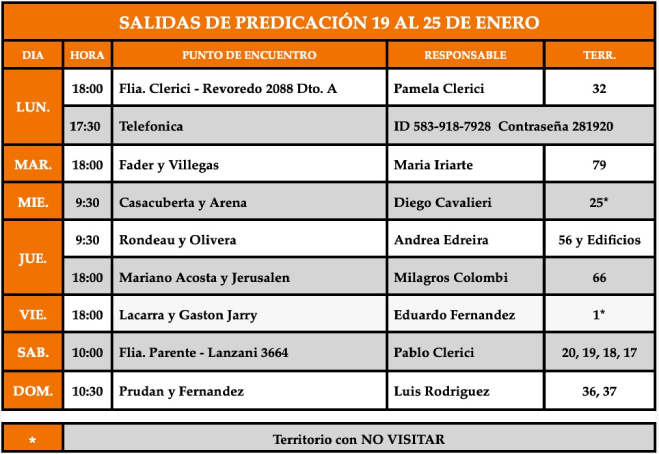
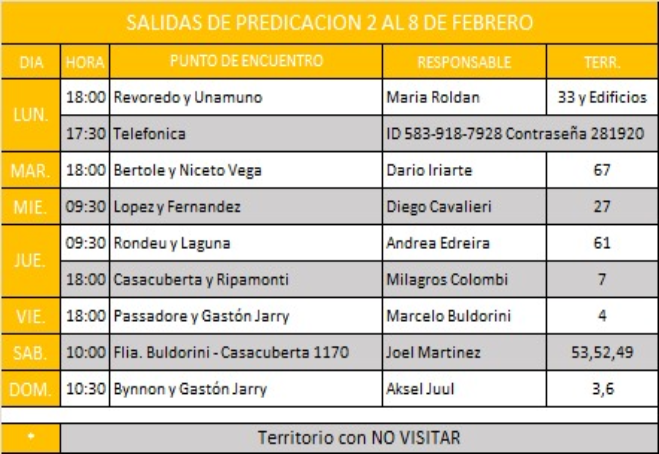
actualizo salida, limpieza y programa

diff --git a/pages/programaSemanal/programaSemanal.html b/pages/programaSemanal/programaSemanal.html
@@ -39,8 +39,8 @@
     <main>
         <section class="reuSemanal">
             <h2> Programa para la reunión entre semana</h2>
-            <img src="./asignacionesEnero1.png" alt="">
-            <img src="./asignacionesEnero2.png" alt="">
+            <img src="./asignacionesFebrero1.png" alt="">
+            <img src="./asignacionesFebrero2.png" alt="">
         </section>
     </main>
     <footer>
